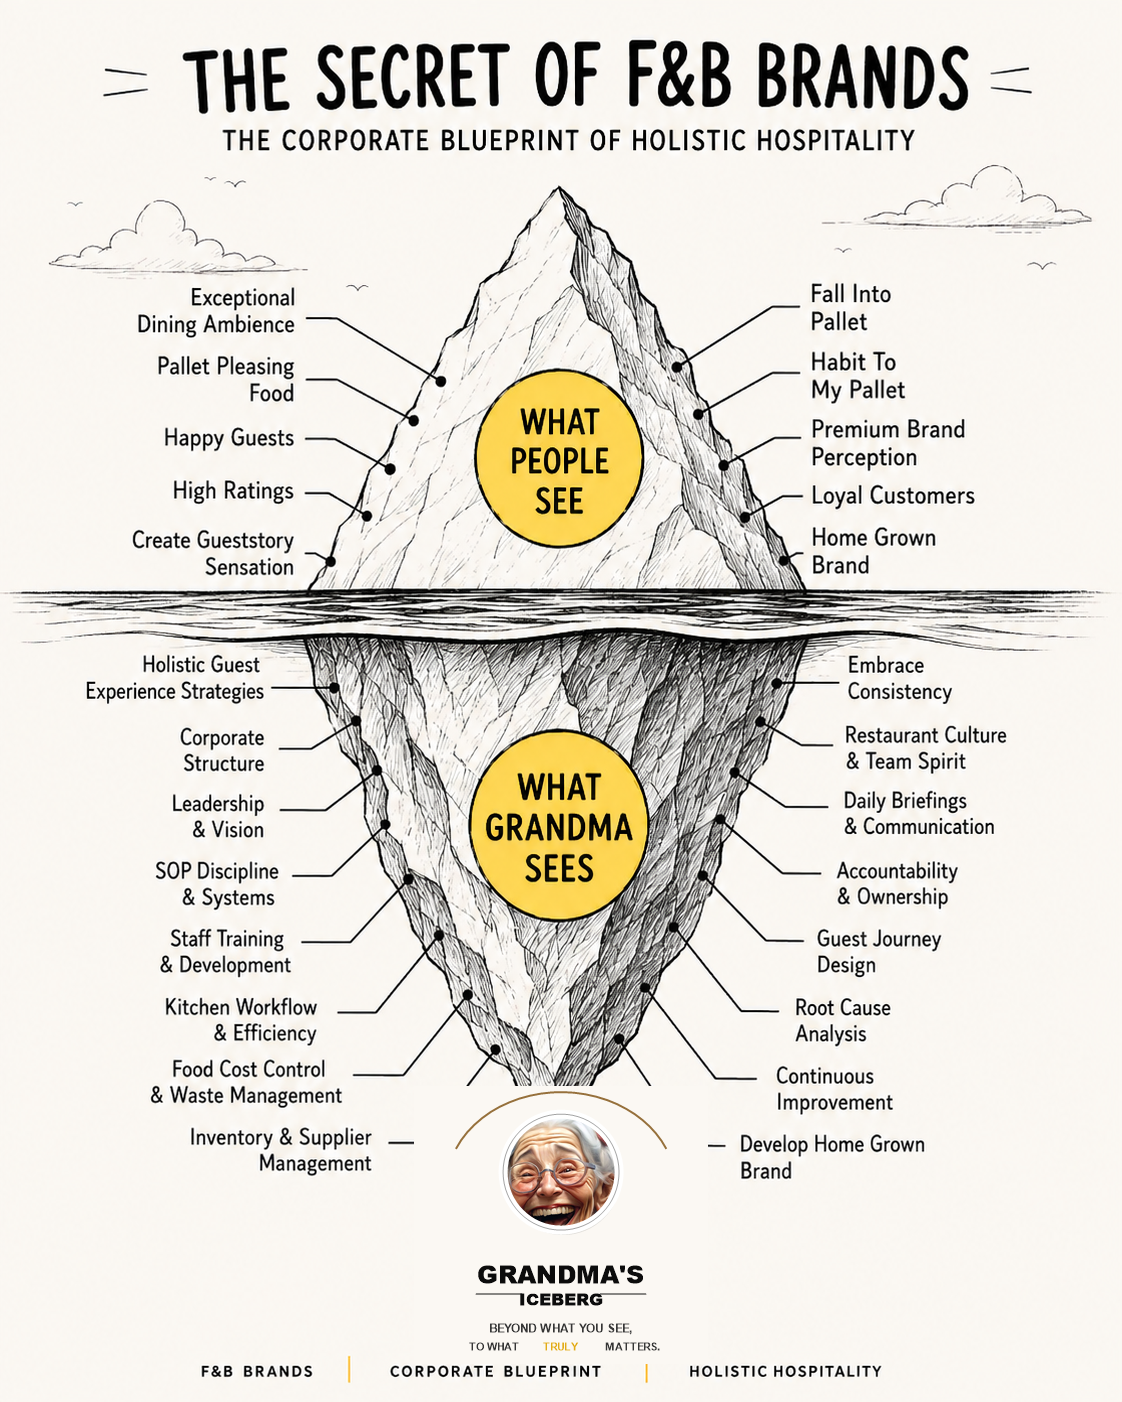
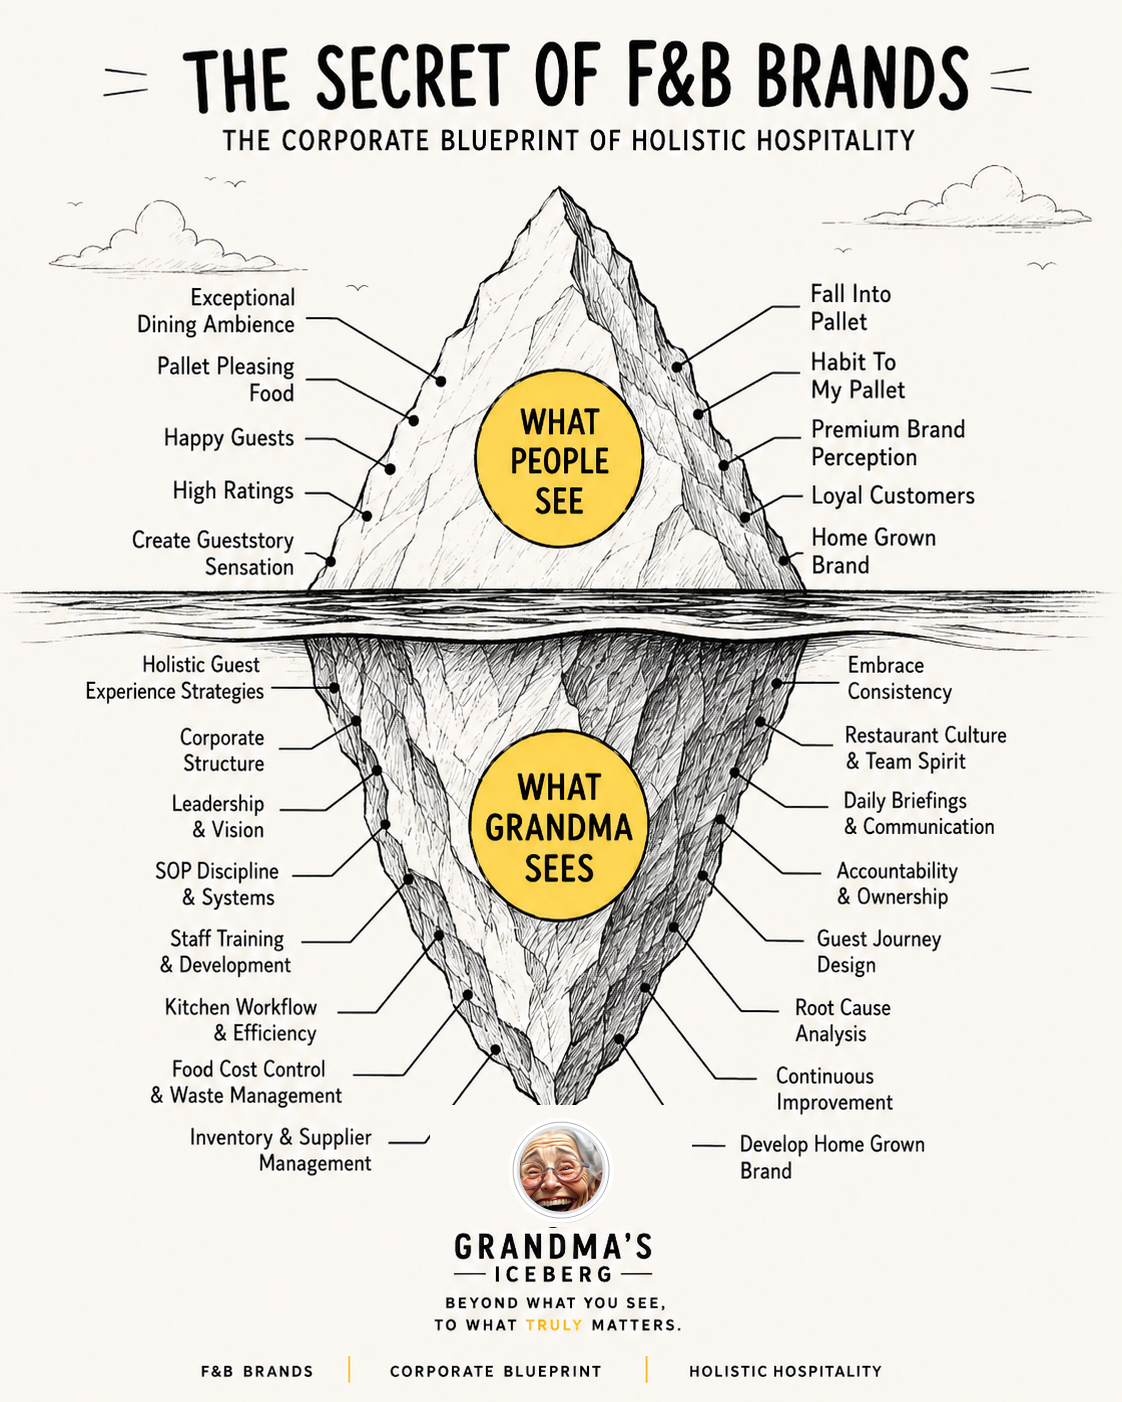
Update portfolio content and blog visuals

Changed region(s): [[0.3743, 0.7668, 0.5927, 0.9815]]

diff --git a/public/assets/css/style.css b/public/assets/css/style.css
@@ -1383,8 +1383,8 @@ html {
 }
 
 .grandma-badge {
-    width: 66px;
-    height: 66px;
+    width: 112px;
+    height: 112px;
     display: inline-flex;
     align-items: center;
     justify-content: center;
@@ -1673,12 +1673,29 @@ html {
 }
 
 .hero-image-frame {
+    position: relative;
+    overflow: hidden;
     padding: 10px;
     border-radius: 14px;
     background: rgba(255, 255, 255, 0.88);
     border: 1px solid rgba(7, 7, 7, 0.10);
     box-shadow: 0 28px 70px rgba(0, 0, 0, 0.18);
     backdrop-filter: blur(10px);
+}
+
+.hero-image-frame:after {
+    content: "";
+    position: absolute;
+    left: 10px;
+    right: 10px;
+    bottom: 10px;
+    height: 92px;
+    background-image: url("/assets/images/iceberg-grandma-face.png");
+    background-repeat: no-repeat;
+    background-position: center bottom;
+    background-size: 116% auto;
+    border-radius: 0 0 10px 10px;
+    pointer-events: none;
 }
 
 .hero-image img {
@@ -4401,9 +4418,9 @@ ul.blog_pagination li a:hover {
 }
 
 .brand-logo-frame {
-    flex: 0 0 48px;
-    width: 48px;
-    height: 38px;
+    flex: 0 0 58px;
+    width: 58px;
+    height: 46px;
     position: relative;
     z-index: 1;
     display: inline-flex;
@@ -4417,10 +4434,22 @@ ul.blog_pagination li a:hover {
 }
 
 .brand-logo-frame img {
-    width: 38px;
-    height: 28px;
+    width: 48px;
+    height: 36px;
     object-fit: contain;
     display: block;
+}
+
+.brand-wordmark-gastronomica .brand-logo-frame {
+    flex-basis: 58px;
+    width: 58px;
+    height: 46px;
+}
+
+.brand-wordmark-gastronomica .brand-logo-frame img {
+    width: 42px;
+    height: 42px;
+    object-fit: contain;
 }
 
 .brand-icon {
@@ -4459,9 +4488,26 @@ ul.blog_pagination li a:hover {
     background: #070707;
 }
 
+.brand-icon-maggianos {
+    width: 58px;
+    height: 46px;
+    flex-basis: 58px;
+    border-radius: 8px;
+    padding: 6px 5px;
+    color: #fff;
+    background: #811a15;
+    border: 1px solid rgba(7, 7, 7, 0.14);
+    box-shadow: 0 8px 20px rgba(7, 7, 7, 0.08);
+    font-size: 7px;
+    font-weight: 700;
+    line-height: 1.05;
+    text-align: center;
+    text-transform: uppercase;
+    white-space: normal;
+}
+
 .brand-icon-landrys,
 .brand-icon-mortons,
-.brand-icon-maggianos,
 .brand-icon-hampton,
 .brand-icon-gastronomica {
     background: #fff;
@@ -4496,14 +4542,14 @@ ul.blog_pagination li a:hover {
     }
 
     .brand-logo-frame {
-        flex-basis: 48px;
-        width: 48px;
-        height: 34px;
+        flex-basis: 54px;
+        width: 54px;
+        height: 42px;
     }
 
     .brand-logo-frame img {
-        width: 38px;
-        height: 24px;
+        width: 44px;
+        height: 32px;
     }
 }
 

diff --git a/src/components/blog/PostboxArea.tsx b/src/components/blog/PostboxArea.tsx
@@ -106,15 +106,22 @@ export default function PostboxArea() {
                 <div className="sidebar__widget mb-45">
                   <div className="sidebar__widget-content">
                     <div className="sidebar__author">
-                      <div className="sidebar__author-thumb">
-                        <img src="/assets/images/optimized/me-grey-studio.webp" alt="YAZ Zahr" />
+                      <div style={{ marginBottom: '25px' }}>
+                        <img
+                          src="/assets/images/WhatsApp Image 2026-09-15 at 7.55.13 PM.jpeg"
+                          alt="YAZ creating a memorable guest experience in a restaurant"
+                          style={{ display: 'block', width: '100%', height: 'auto' }}
+                        />
+                        <img
+                          src="/assets/images/wild wings.jpeg"
+                          alt="YAZ and the Buffalo Wild Wings team"
+                          style={{ display: 'block', width: '100%', height: 'auto', marginTop: '16px' }}
+                        />
                       </div>
                       <div className="sidebar__author-content">
-                        <h3 className="sidebar__author-title">YAZ</h3>
-                        <p>AHLEI Certified Hospitality Professional with 20+ years of global experience managing multi-location F&B operations.</p>
-                        <div className="sidebar__author-social d-flex align-items-center justify-content-center">
-                          <a target="_blank" href="https://www.linkedin.com/in/yehya-yaz-abou-zahr-1248381a?utm_source=share_via&utm_content=profile&utm_medium=member_ios" aria-label="LinkedIn"><i className="fa-brands fa-linkedin-in"></i></a>
-                        </div>
+                        <p>
+                          Hospitality is not only about food and service—it is also about creating moments guests will remember. Sometimes the manager and the team need to step out of the serious “poker face” and become part of the show. A funny pose, a playful interaction, a celebration, or a little unexpected entertainment can completely change the atmosphere of a restaurant. When leaders join the fun, the team feels more relaxed, guests feel more connected, and the restaurant becomes more than a place to eat—it becomes an experience. <strong>Great hospitality knows when to be professional, and when it’s showtime.</strong>
+                        </p>
                       </div>
                     </div>
                   </div>

diff --git a/src/components/home/AboutArea.tsx b/src/components/home/AboutArea.tsx
@@ -43,7 +43,7 @@ export default function AboutArea() {
             <div className="col-lg-7">
               <div className="about-content-part wow fadeInUp delay-0-2s">
                 <span className="about-kicker">Founder & Principal Hospitality Consultant</span>
-                <p>An international hospitality expert with more than 20 years of experience in food and beverage operations, brand development, guest experience and professional training. His career spans the United States, Lebanon and the GCC, where he held leadership positions with renowned brands including Morton's The Steakhouse, Chart House, Kobe Japanese Steakhouse, The Cheesecake Factory, Buffalo Wild Wings and Gastronomica.</p>
+                <p>An international hospitality expert with more than 20 years of experience in food and beverage operations, brand development, guest experience and professional training. His career spans the United States, Lebanon and the GCC, where he held leadership positions with renowned brands.</p>
                 <p>Drawing on this extensive operational experience, he founded Grandma's Iceberg, a hospitality consultancy built around his signature concept, The Secret of F&B Brands. His approach looks beyond what guests see, including exceptional dining, brand perception and memorable experiences, to strengthen what truly drives success beneath the surface: corporate structure, leadership, operational systems, staff development, cost control and continuous improvement. Through consulting and educational content, he helps hospitality brands build stronger foundations and achieve sustainable growth.</p>
               </div>
               <div className="hero-counter-area about-stats d-flex justify-content-between wow fadeInUp delay-0-4s">

diff --git a/src/components/home/BrandArea.tsx b/src/components/home/BrandArea.tsx
@@ -9,6 +9,7 @@ const brandLogos = [
     mark: "G",
     icon: "gastronomica",
     url: "https://www.linkedin.com/company/gastronomica-general-trading-co-/",
+    logoSrc: "/assets/images/imagess.jpg",
   },
   {
     name: "The Cheesecake Factory",
@@ -47,7 +48,7 @@ const brandLogos = [
   },
   {
     name: "Maggiano's Little Italy",
-    mark: "M",
+    mark: "Maggiano's Little Italy",
     icon: "maggianos",
     url: "https://www.linkedin.com/company/maggiano%27s-little-italy/",
   },
@@ -98,12 +99,12 @@ export default function BrandArea() {
                     {brandLogos.map((brand) => (
                       <SwiperSlide key={brand.name}>
                         <a
-                          className={`brand-wordmark brand-wordmark-${brand.icon}`}
+                          className={`brand-wordmark brand-wordmark-${brand.icon}${brand.logoSrc ? ' brand-wordmark-image' : ''}`}
                           href={brand.url ?? "#"}
                           target={brand.url ? "_blank" : undefined}
                           rel={brand.url ? "noopener noreferrer" : undefined}
                           aria-label={brand.url ? `${brand.name} LinkedIn` : brand.name}
-                          data-mark={brand.mark}
+                          data-mark={brand.logoSrc ? "" : brand.mark}
                         >
                           {brand.logoSrc ? (
                             <span className="brand-logo-frame" aria-hidden="true">

diff --git a/src/layouts/headers/HeaderOne.tsx b/src/layouts/headers/HeaderOne.tsx
@@ -21,12 +21,7 @@ export default function HeaderOne() {
                   <div className="logo-area">
                     <div className="logo">
                       <Link href="/" className="text-logo">
-                        <span className="logo-photo">
-                          <img src="/assets/images/optimized/me-paris.webp" alt="YAZ Zahr" />
-                        </span>
-                        <span className="logo-mark">YAZ</span>
                         <span className="logo-copy">
-                          <small>YAZ&nbsp;Zahr</small>
                           <small>Grandma Iceberg</small>
                           <small>Founder & CEO</small>
                         </span>

diff --git a/src/components/home/index.tsx b/src/components/home/index.tsx
@@ -3,7 +3,6 @@ import React from 'react'
 import HeroArea from './HeroArea'
 import BrandArea from './BrandArea'
 import AboutArea from './AboutArea'
-import ServiceArea from './ServiceArea'
 import HeaderOne from '@/layouts/headers/HeaderOne'
 import PortfolioArea from './PortfolioArea'
 import TestimonoalArea from './TestimonoalArea'
@@ -21,7 +20,6 @@ export default function Home() {
             <HeroArea />
             <BrandArea />
             <AboutArea />
-            <ServiceArea />
             <PortfolioArea />
             <TestimonoalArea />
             <BlogArea />

diff --git a/src/layouts/footers/FooterOne.tsx b/src/layouts/footers/FooterOne.tsx
@@ -18,7 +18,9 @@ export default function FooterOne() {
               <p className="copy-left-text">Developed by Mohammad Salameh</p>
             </div>
             <div className="col-lg-6 col-sm-6">
-              <p className="copy-right-text">© 2026 YAZ Zahr. All rights reserved.</p>
+              <p className="copy-right-text">
+                © 2026 YAZ<span style={{ display: 'inline-block', marginLeft: '0.4em' }}>ZAHR</span>. All rights reserved.
+              </p>
             </div>
           </div>
         </div>

diff --git a/src/components/contact/index.tsx b/src/components/contact/index.tsx
@@ -13,7 +13,7 @@ export default function Contact() {
       <div id="smooth-wrapper">
         <div id="smooth-content">
           <main>
-            <Breadcrumb title="Say Hello" style_3={true} />
+            <Breadcrumb title="LET’S MANIFEST YOUR VISION" style_3={true} />
             <ContactArea />
           </main>
           <FooterOne />

diff --git a/src/layouts/headers/menu_data.ts b/src/layouts/headers/menu_data.ts
@@ -17,12 +17,6 @@ const menu_data: DataType[] = [
 		has_dropdown: false,
 	},
 	{
-		id: 2,
-		title: "About",
-		link: "/about",
-		has_dropdown: false,
-	},
-	{
 		id: 3,
 		title: "Features",
 		link: "/service",
